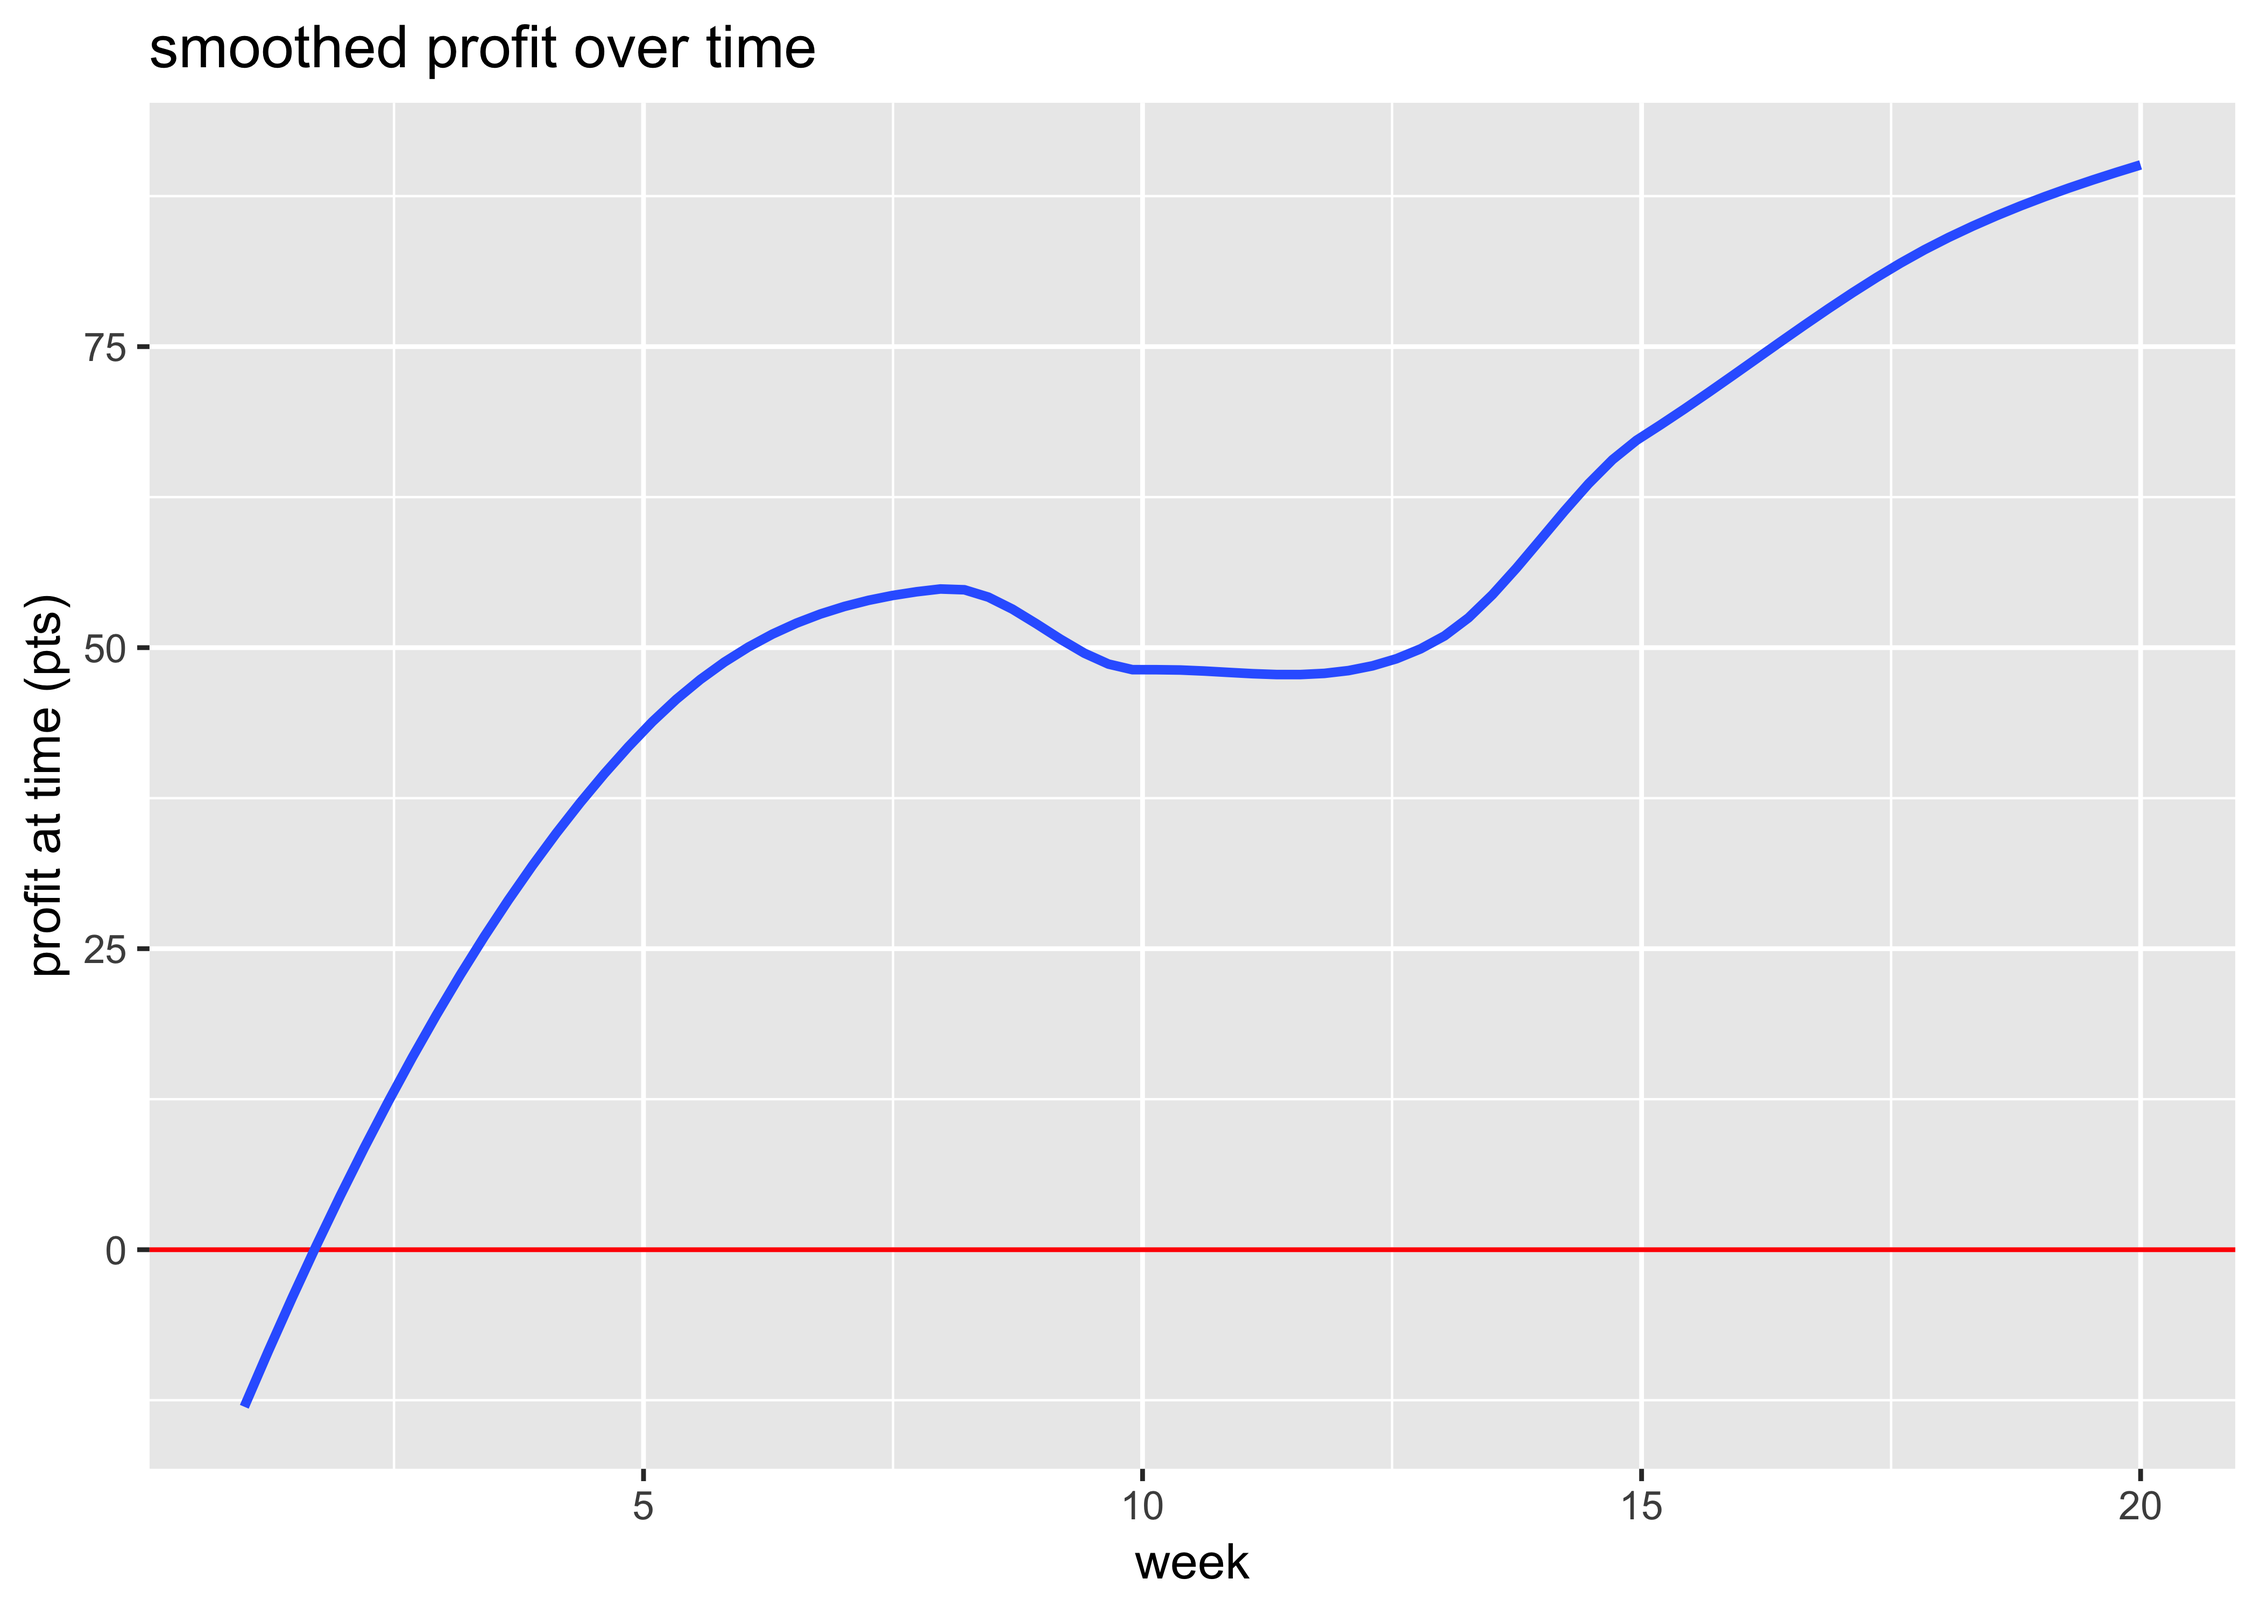
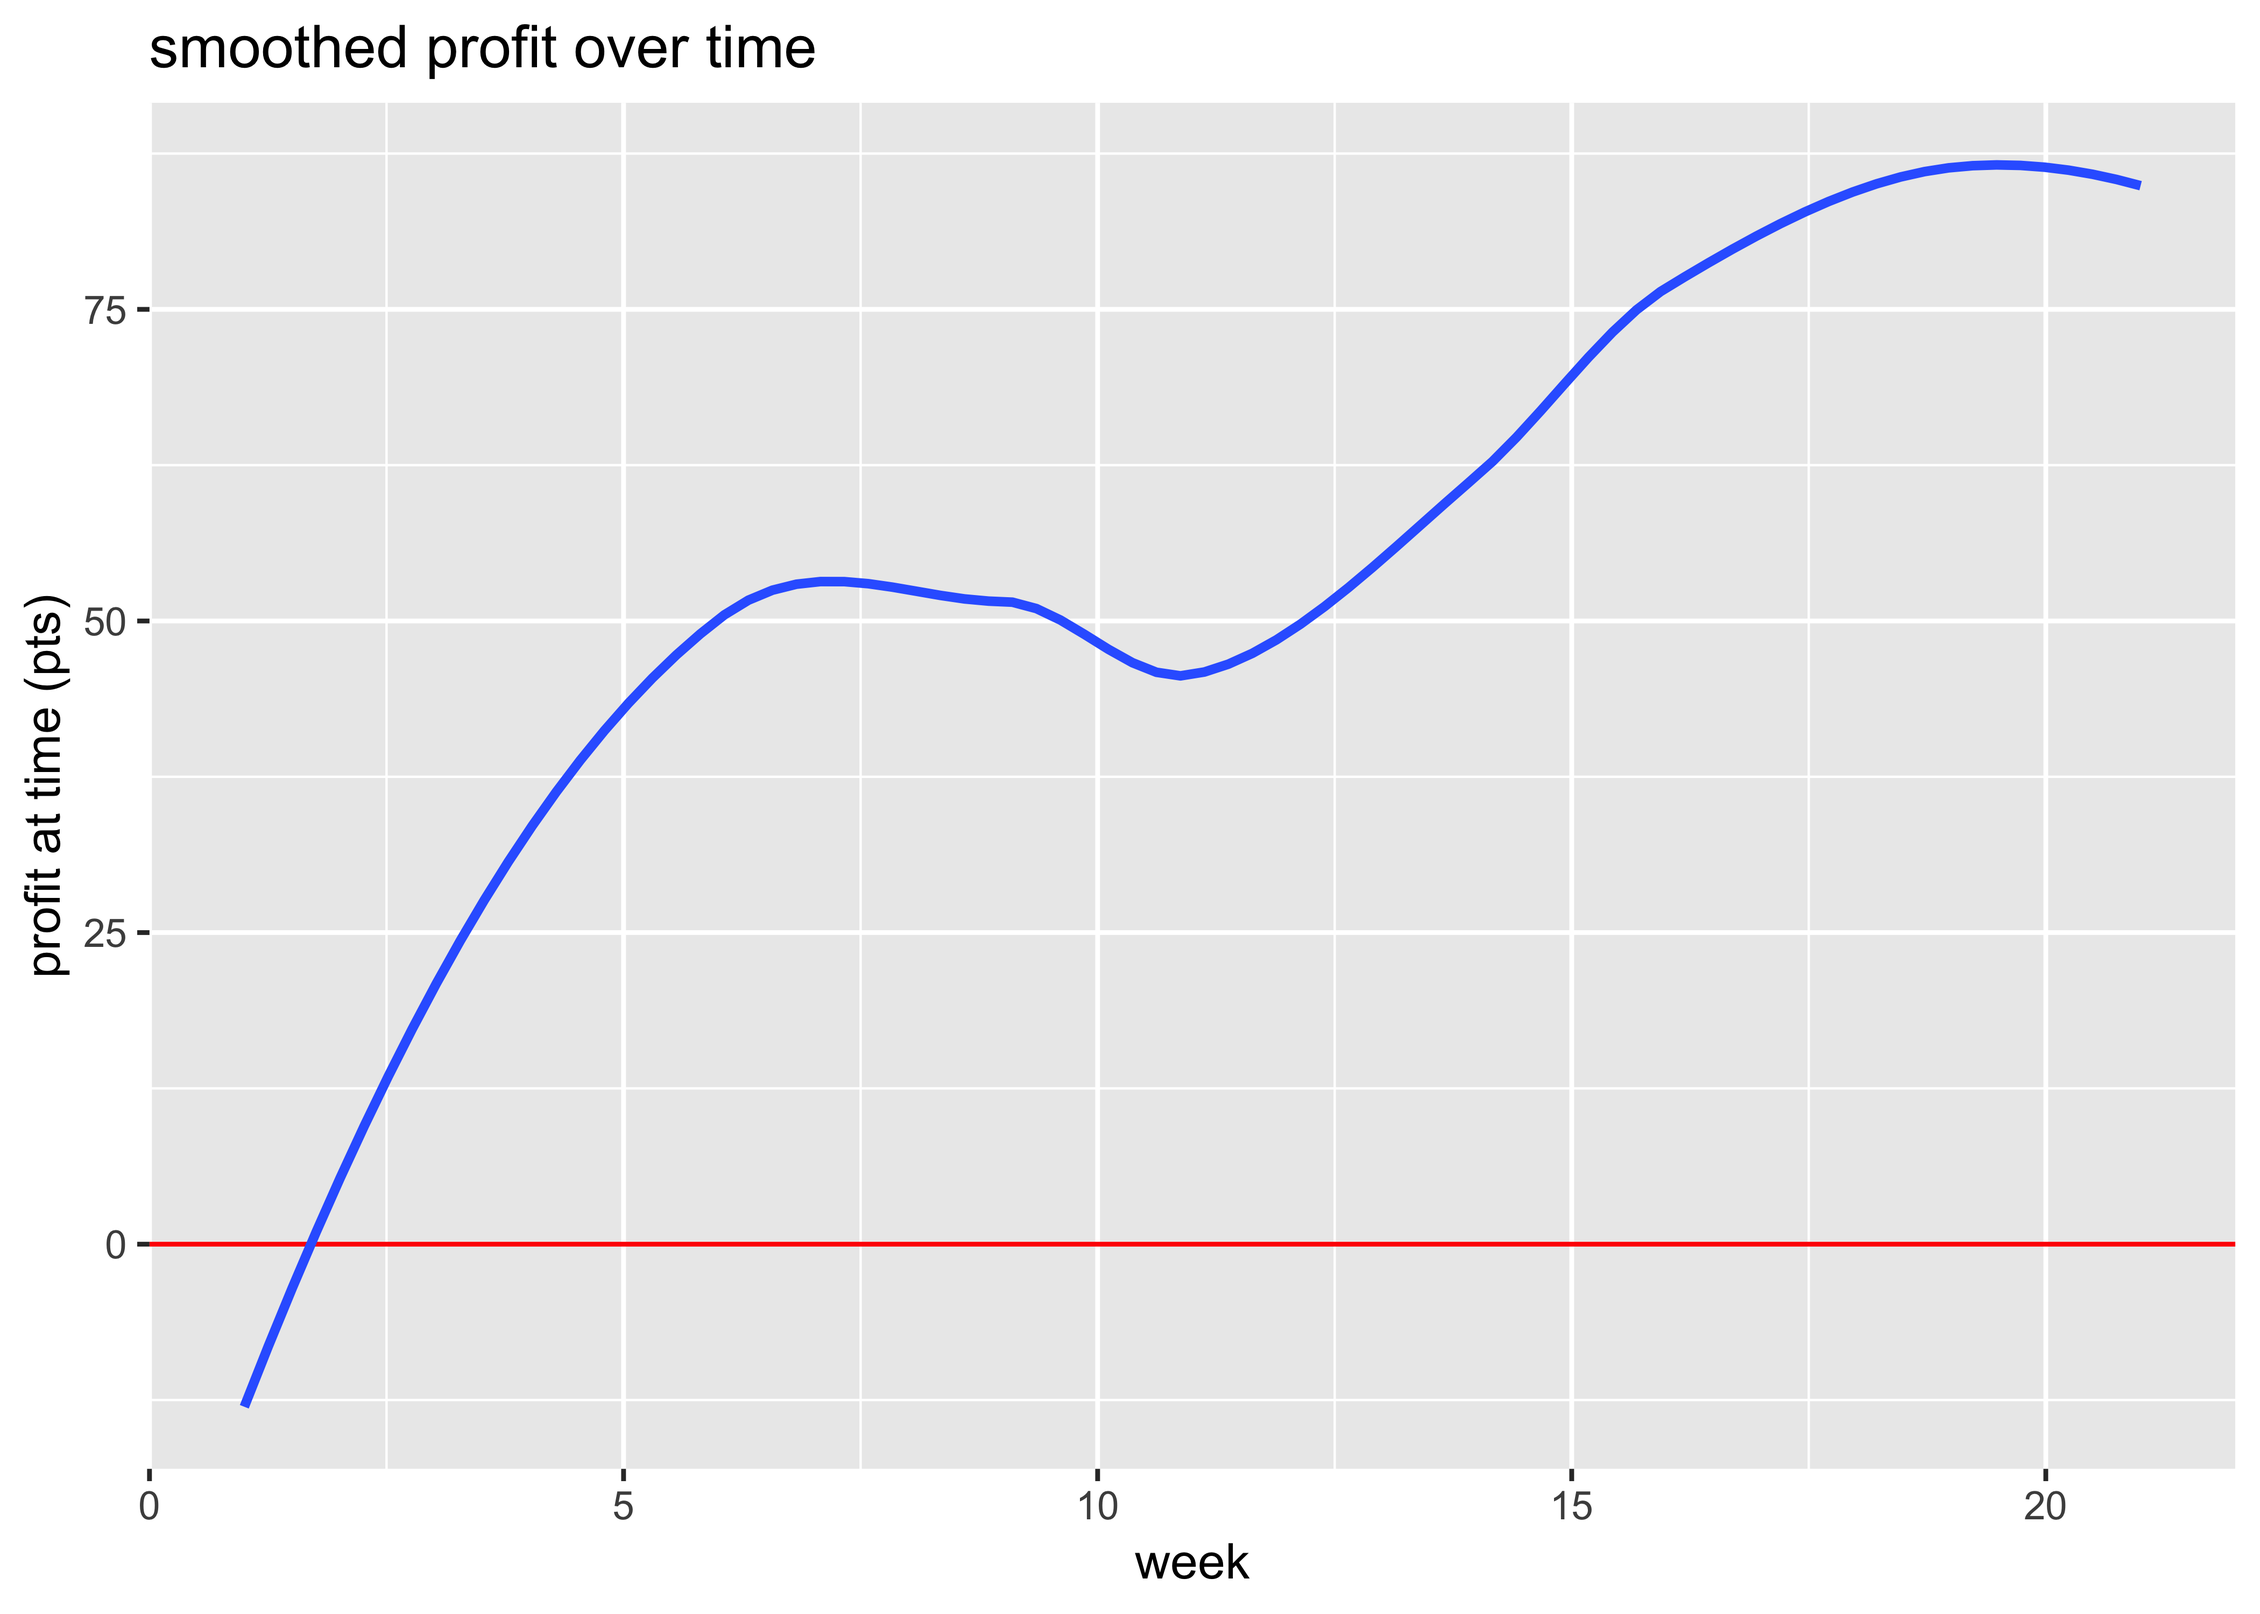
Update.

diff --git a/report.md b/report.md
@@ -1,7 +1,6 @@
 report
 ================
-Rory Nolan
-09/09/2018
+2018-09-14
 
 # Profit over time
 
@@ -11,26 +10,25 @@ Rory Nolan
 
 # ROI and ROC
 
-We put in €9000 and we’ve made a profit of €3,865 on the bets. However,
-we’ve paid two subscriptions of £600 which amounts to €1,345 so our net
-profit is €2,520. That’s a return on capital of 28%.
+We put in €9000 and we’ve made a profit of €3,891 on the bets. However,
+we’ve paid two subscriptions of £600 which amounts to €1,346 so our net
+profit is €2,545. That’s a return on capital of 28.28%.
 
-We have wagered a total of €43,164 and made a betting profit of €3,865,
-which gives us a betting ROI of 8.95%.
+We have wagered a total of €43,651 and made a betting profit of €3,891,
+which gives us a betting ROI of 8.91%.
 
 # Have any bookies been riddled?
 
 | bookmaker    | Aidan   | Rory    | total   |
 | :----------- | :------ | :------ | :------ |
 | Bet365       | 0       | \+36.46 | \+36.46 |
-| Unibet       | \+8.69  | \+15.83 | \+24.52 |
+| Paddy Power  | \+37.38 | \-8.17  | \+29.21 |
 | William Hill | \+25.68 | \-2.53  | \+23.15 |
-| Betfred      | \+6.2   | \+12.42 | \+18.62 |
-| Paddy Power  | \+24.33 | \-8.17  | \+16.16 |
+| Unibet       | \+5.79  | \+15.83 | \+21.62 |
+| Betfred      | \+6.2   | \+7.92  | \+14.12 |
 | Coral        | \+14.11 | 0       | \+14.11 |
-| Matchbook    | \+12.06 | \+1.75  | \+13.81 |
+| Matchbook    | \+12.11 | \+1.75  | \+13.86 |
 | SportingBet  | 0       | \+10.01 | \+10.01 |
-| NA           | \+5.14  | 0       | \+5.14  |
 | 188Bet       | \+4.58  | \-1.11  | \+3.47  |
 | JuJu         | \+1.06  | 0       | \+1.06  |
 | LC Matchbook | 0       | \+1.03  | \+1.03  |
@@ -56,8 +54,8 @@ bookie profits (pts)
 
 # Minimum acceptable odds
 
-We’ve had winnings of 727 points and losses of 637 points, so even if
-our odds were only a fraction 637 / 727 = 0.88 of what we actually got,
+We’ve had winnings of 735 points and losses of 645 points, so even if
+our odds were only a fraction 645 / 735 = 0.88 of what we actually got,
 we’d still be breaking even.
 
 # Winners and losers
@@ -65,16 +63,17 @@ we’d still be breaking even.
 Here’s a count of the number of winners, losers, places and non-runners
 we’ve bet on.
 
-| result |   n | percent |
-| :----- | --: | :------ |
-| Lose   | 308 | 72%     |
-| Win    |  81 | 19%     |
-| NR     |  27 | 6%      |
-| Place  |   9 | 2%      |
+| result         |   n | percent |
+| :------------- | --: | :------ |
+| Win only Lose  | 256 | 64%     |
+| Win only Win   |  76 | 19%     |
+| Each way Lose  |  55 | 14%     |
+| Each way Place |   9 | 2%      |
+| Each way Win   |   6 | 1%      |
 
 # Win only vs each way
 
-  - We’ve made 302 *win only* bets, on which we’ve made a profit of
-    €5,383.
+  - We’ve made 306 *win only* bets, on which we’ve made a profit of
+    €5,411.
   - We’ve made 64 *each way* bets, on which we’ve made a profit of
-    €-1,519.
+    €-1,520.
